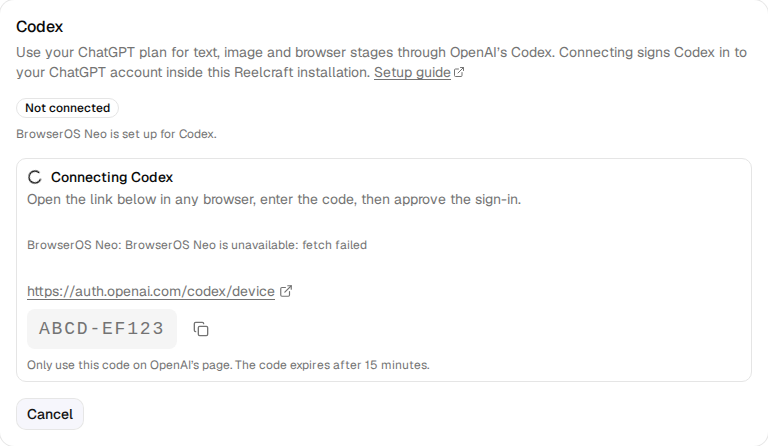
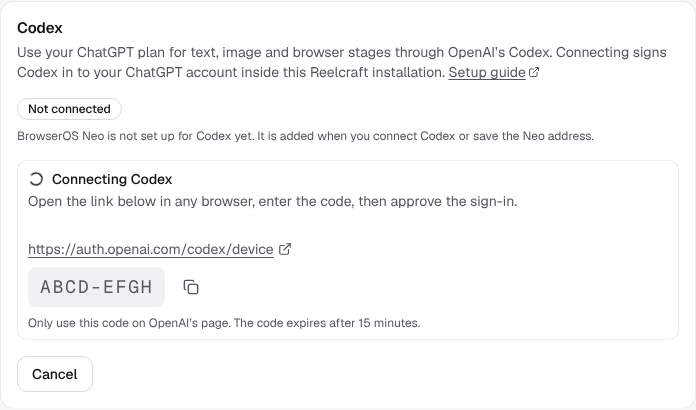
docs: retake screenshots for the new UI; fix(assistant): never reset a long chat (#225)
* docs: retake the screenshots for the new UI

The guide's screenshots predated the redesign (icon rail, new Home, run page,
canvas) and the assistant. Retake all of them in the light theme from a seeded
local stack, and add two: the New channel dialog and the assistant dock.

- Replace the Channels list shot with the New channel dialog: /channels now
  opens a channel's page, so the old "one channel card" view no longer exists.
- Fix captions and the channel-page tab table (Library, Assistant notes) to
  match what the shots show.
- Add the assistant dock to "The assistant" page.
- Remove run-page.png and unified-run-page.png, which no page used.
- Keep blueprint-canvas.png (the root README embeds it) with a Graph capture.

Claude-Session: https://claude.ai/code/session_01QxhZpYdusGp2ynsEqok3ci

* fix(assistant): never reset a long chat; Codex and Claude manage their own context

A chat whose last turn read more than 150k tokens started a fresh provider
session from a summary on the next message. Remove that: Reelcraft now only
records usage. A chat whose tools are out of date after an update still
continues in a fresh session, since the old session cannot gain new tools.

- carryOverReason only returns 'updated'; the token threshold is gone.
- The Usage popover shows what the last answer read instead of a "how full"
  meter. Old 'long' dividers still render.
- Docs and the e2e test describe the new behaviour.
[…]

diff --git a/apps/web/src/components/assistant/usage-popover.tsx b/apps/web/src/components/assistant/usage-popover.tsx
@@ -2,12 +2,11 @@ import { Gauge } from 'lucide-react';
 import type { AssistantUsageDto } from '@reelcraft/shared';
 import { Button } from '@/components/ui/button';
 import { Popover, PopoverContent, PopoverTrigger } from '@/components/ui/popover';
-import { formatTokens, fullness } from './usage.logic';
+import { formatTokens } from './usage.logic';
 
 /** What this chat has used: tokens of your Codex or Claude plan, and what its runs spent. */
 export function UsagePopover({ usage }: { usage: AssistantUsageDto | null }) {
   if (!usage) return null;
-  const full = fullness(usage.lastInputTokens);
   return (
     <Popover>
       <PopoverTrigger asChild>
@@ -24,22 +23,17 @@ export function UsagePopover({ usage }: { usage: AssistantUsageDto | null }) {
           <dd>{formatTokens(usage.outputTokens)} tokens</dd>
           <dt className="text-muted-foreground">Answers</dt>
           <dd>{usage.turns}</dd>
+          {usage.lastInputTokens !== null && (
+            <>
+              <dt className="text-muted-foreground">Last answer read</dt>
+              <dd>{formatTokens(usage.lastInputTokens)} tokens</dd>
+            </>
+          )}
           <dt className="text-muted-foreground">Runs it started</dt>
           <dd>
             {usage.runs} · ${usage.runSpendUsd.toFixed(2)}
           </dd>
         </dl>
-        {full !== null && (
-          <div className="mt-3">
-            <p className="text-xs text-muted-foreground">How full the conversation is</p>
-            <div className="mt-1 h-1.5 overflow-hidden rounded-full bg-surface-3">
-              <div className="h-full rounded-full bg-acc" style={{ width: `${full}%` }} />
-            </div>
-            <p className="mt-1 text-[11px] text-muted-foreground">
-              At 100% the next message continues in a fresh session, starting from a summary.
-            </p>
-          </div>
-        )}
         <p className="mt-3 text-[11px] text-muted-foreground">
           Tokens count against your Codex or Claude plan; runs are paid by your provider keys.
         </p>

diff --git a/apps/api/src/assistant/carry-over.ts b/apps/api/src/assistant/carry-over.ts
@@ -1,27 +1,19 @@
-/** Long and outdated chats continue in a fresh provider session that starts from a summary. */
-
-/** A turn that read more than this many tokens makes the next message start fresh. */
-export const CARRY_OVER_INPUT_TOKENS = 150_000;
+/** A chat whose tools are out of date continues in a fresh provider session that starts from a
+ * summary. A long chat never does: Codex and Claude manage their own context, and Reelcraft only
+ * records usage. */
 
 /** The most characters of a summary carried into the new session. */
 export const SUMMARY_CHARS = 8_000;
 
-export type CarryOverReason = 'long' | 'updated';
+export type CarryOverReason = 'updated';
 
 /** Why the next message should start a fresh session, or null when it can continue as it is. */
-export function carryOverReason(input: {
-  stale: boolean;
-  lastInputTokens: number | null;
-}): CarryOverReason | null {
-  if (input.stale) return 'updated';
-  if (input.lastInputTokens !== null && input.lastInputTokens > CARRY_OVER_INPUT_TOKENS) {
-    return 'long';
-  }
-  return null;
+export function carryOverReason(input: { stale: boolean }): CarryOverReason | null {
+  return input.stale ? 'updated' : null;
 }
 
 /** What the old session is asked for: a hand-off for the model that continues the chat. */
-export const SUMMARY_PROMPT = `<reelcraft_context>This chat is moving to a fresh session (it got long, or Reelcraft was updated). Do not call any tool. Write a hand-off for the assistant that continues it, in at most 600 words:
+export const SUMMARY_PROMPT = `<reelcraft_context>This chat is moving to a fresh session (Reelcraft was updated). Do not call any tool. Write a hand-off for the assistant that continues it, in at most 600 words:
 - what the user wants overall, and their preferences and decisions so far;
 - what you did: blueprints, versions, runs, files and ids involved (keep every id exactly);
 - what is in progress or waiting (runs being watched, goals, questions, approvals);

diff --git a/apps/api/test/e2e/assistant.e2e.test.ts b/apps/api/test/e2e/assistant.e2e.test.ts
@@ -1567,7 +1567,7 @@ describe('assistant (e2e)', () => {
     );
   });
 
-  it('reports usage, and continues a long chat in a fresh session from a summary', async () => {
+  it('reports usage, and leaves a long chat to the provider instead of resetting it', async () => {
     const sid = await newSession('auto');
     const before = agent.summaries;
     useScript([
@@ -1589,19 +1589,14 @@ describe('assistant (e2e)', () => {
 
     await turn(sid, { text: 'second' });
     session = await waitIdle(sid);
-    expect(agent.summaries).toBe(before + 1);
-    const [reset] = ofType(session, 'context_reset');
-    expect(reset).toMatchObject({
-      payload: { reason: 'long', by: 'assistant', summary: agent.summary },
-    });
-    expect(agent.turns.at(-1)!.text).toContain('<earlier_conversation_summary>');
-    expect(agent.turns.at(-1)!.text).toContain('second');
-    const [newSessionRow] = await testDb.db
+    expect(agent.summaries).toBe(before);
+    expect(ofType(session, 'context_reset')).toHaveLength(0);
+    expect(agent.turns.at(-1)!.text).not.toContain('<earlier_conversation_summary>');
+    const [after] = await testDb.db
       .select({ ext: assistantSession.externalSessionId })
       .from(assistantSession)
       .where(eq(assistantSession.id, sid));
-    expect(newSessionRow!.ext).not.toBe(oldSession!.ext);
-    expect(agent.deleted).toContain(oldSession!.ext);
+    expect(after!.ext).toBe(oldSession!.ext);
   });
 
   it('asks questions, then continues with the answers as the next turn', async () => {

diff --git a/apps/api/src/assistant/carry-over.test.ts b/apps/api/src/assistant/carry-over.test.ts
@@ -1,20 +1,10 @@
 import { describe, expect, it } from 'vitest';
-import {
-  CARRY_OVER_INPUT_TOKENS,
-  SUMMARY_CHARS,
-  carryOverReason,
-  fallbackSummary,
-  withSummary,
-} from './carry-over';
+import { SUMMARY_CHARS, carryOverReason, fallbackSummary, withSummary } from './carry-over';
 
 describe('carrying a chat over', () => {
-  it('starts fresh after an update or a very long turn', () => {
-    expect(carryOverReason({ stale: true, lastInputTokens: 10 })).toBe('updated');
-    expect(carryOverReason({ stale: false, lastInputTokens: CARRY_OVER_INPUT_TOKENS + 1 })).toBe(
-      'long',
-    );
-    expect(carryOverReason({ stale: false, lastInputTokens: 1000 })).toBeNull();
-    expect(carryOverReason({ stale: false, lastInputTokens: null })).toBeNull();
+  it('starts fresh after an update, never because a chat is long', () => {
+    expect(carryOverReason({ stale: true })).toBe('updated');
+    expect(carryOverReason({ stale: false })).toBeNull();
   });
 
   it('falls back to the newest words of the conversation, within the limit', () => {

diff --git a/apps/api/src/assistant/assistant.service.ts b/apps/api/src/assistant/assistant.service.ts
@@ -813,13 +813,11 @@ export class AssistantService implements OnModuleInit, OnModuleDestroy {
       const channelId = await this.contextChannel(dto.context);
       const notes = await this.knowledge.notesBlock(channelId).catch(() => null);
       const images = await this.attachedImages(attachments, ctx);
-      // a long or outdated chat continues in a fresh session, from a summary
+      // a chat whose tools are out of date continues in a fresh session, from a summary; a long
+      // chat is left to Codex or Claude, which manage their own context
       let externalSessionId = session.externalSessionId;
       let message = text;
-      const reason = carryOverReason({
-        stale: this.toSessionDto(session).stale,
-        lastInputTokens: await this.lastInputTokens(session.id, turnId),
-      });
+      const reason = carryOverReason({ stale: this.toSessionDto(session).stale });
       if (reason) {
         const carried = await this.carryOver(
           session,

diff --git a/apps/web/src/components/assistant/usage.logic.ts b/apps/web/src/components/assistant/usage.logic.ts
@@ -1,14 +1,5 @@
-/** The tokens a turn may read before the chat continues in a fresh session (as the API). */
-export const CARRY_OVER_INPUT_TOKENS = 150_000;
-
 export function formatTokens(n: number): string {
   if (n >= 1_000_000) return `${(n / 1_000_000).toFixed(1)}M`;
   if (n >= 1_000) return `${Math.round(n / 1_000)}k`;
   return String(n);
-}
-
-/** How full the conversation is, 0-100, from what the latest turn read; null before any turn. */
-export function fullness(lastInputTokens: number | null): number | null {
-  if (lastInputTokens === null) return null;
-  return Math.min(100, Math.round((lastInputTokens / CARRY_OVER_INPUT_TOKENS) * 100));
 }

diff --git a/apps/web/src/components/assistant/usage.logic.test.ts b/apps/web/src/components/assistant/usage.logic.test.ts
@@ -1,15 +1,10 @@
 import { describe, expect, it } from 'vitest';
-import { formatTokens, fullness } from './usage.logic';
+import { formatTokens } from './usage.logic';
 
 describe('chat usage', () => {
   it('writes token counts briefly', () => {
     expect(formatTokens(950)).toBe('950');
     expect(formatTokens(12_400)).toBe('12k');
     expect(formatTokens(2_340_000)).toBe('2.3M');
-  });
-  it('says how full the conversation is', () => {
-    expect(fullness(null)).toBeNull();
-    expect(fullness(75_000)).toBe(50);
-    expect(fullness(400_000)).toBe(100);
   });
 });

diff --git a/apps/docs/docs/blueprints/assistant.md b/apps/docs/docs/blueprints/assistant.md
@@ -27,6 +27,8 @@ The assistant knows what you're looking at. The box above the message field show
 "this stage" in your message mean that one. Select **✕** on it to send a message about nothing in
 particular.
 
+![The assistant on a run page, with the run and stage it is looking at](/img/usage/assistant-dock.png)
+
 Type your message and press **Enter** (**Shift + Enter** starts a new line). Messages can contain up
 to 64,000 characters.
 
@@ -214,13 +216,14 @@ Your chats are kept, so you can come back to one later. At the top of the chat:
 Select **Stop** (the square) to interrupt the assistant while it works.
 
 **Usage** (the gauge) shows what the chat has used: the tokens it read and wrote, how many answers,
-the runs it started with what they spent, and how full the conversation is.
+the runs it started with what they spent, and how much the last answer read. Reelcraft only
+shows this: it never shortens or resets a long chat. Codex and Claude manage their own context.
 
-When a conversation gets very long, or after you update Reelcraft, your next message continues the
-chat in a fresh session. The assistant first writes a summary of the chat so far, and the fresh
-session starts from it, using the new version's tools after an update. The chat shows a divider
-(**The chat got long: continued in a fresh session**); select it to read the summary. Nothing in the
-chat is lost. Start a new chat instead whenever you change subject.
+After you update Reelcraft, a chat whose tools are out of date continues in a fresh session on your
+next message. The assistant first writes a summary of the chat so far, and the fresh session starts
+from it, using the new version's tools. The chat shows a divider; select it to read the summary.
+Nothing in the chat is lost. A long chat is never reset like this. Start a new chat whenever you
+change subject.
 
 ## Good to know
 

diff --git a/apps/docs/docs/channels/channels.md b/apps/docs/docs/channels/channels.md
@@ -25,21 +25,21 @@ Two channels never share any of these.
 If the channel can't be saved, the reason is shown above the **Create** button and the form stays
 open, so you can fix it and try again.
 
-![The Channels page with one channel card](/img/usage/channels-list.png)
+![The New channel dialog, with Name, Description, Themes and Defaults](/img/usage/channel-new-dialog.png)
 
 ## The channel page
 
-Select a channel's card to open its page. Its tabs show how many of each item it has:
+Select a channel in the list on the left to open its page. Its tabs show how many of each item it has:
 
 | Tab                 | What's there                                                                                     |
 | ------------------- | ------------------------------------------------------------------------------------------------ |
 | **Blueprints**      | The recipes for your videos. See [Blueprints](../blueprints/blueprints.md).                      |
 | **Characters**      | People or mascots that appear in your videos. See [Characters](./characters.md).                 |
-| **Assets**          | Images, video and audio you upload to reuse. See [Assets](./assets.md).                          |
+| **Library**         | Images, video and audio you upload to reuse. See [Assets](./assets.md).                          |
 | **Runs**            | Every run of this channel's blueprints. See [Runs list](../runs/runs-list.md).                   |
 | **Assistant notes** | What the [assistant](../blueprints/assistant.md#what-it-remembers) remembers about this channel. |
 
-![A channel's page, with the Blueprints, Characters, Assets and Runs tabs](/img/usage/channel-page.png)
+![A channel's page, with the Blueprints, Runs, Library, Characters and Assistant notes tabs](/img/usage/channel-page.png)
 
 ## Edit a channel
 

diff --git a/apps/docs/docs/runs/outputs-and-downloads.md b/apps/docs/docs/runs/outputs-and-downloads.md
@@ -26,7 +26,7 @@ Changing tabs or expanding the panel preserves the selected item and attempt. **
 same backend eligibility and confirmation rules on both surfaces. A disabled stage's stored outputs
 remain inspectable, but are unavailable to descendants until the stage is enabled again.
 
-![Shared stage details, item progress, and attempt provenance](/img/usage/dag-stage-details.jpg)
+![A stage's Attempts tab, showing what the attempt received](/img/usage/dag-stage-details.jpg)
 
 How each kind of output looks:
 

diff --git a/apps/docs/docs/runs/canvas-runs.md b/apps/docs/docs/runs/canvas-runs.md
@@ -10,7 +10,7 @@ creates a version. See [Versions](../blueprints/versions.md).
 Production runs of a saved version start from the blueprints page and never show on the canvas. See
 [Starting a run](./starting-a-run.md).
 
-![Canvas toolbar, stage cards and Run tab showing six saved Motion Planning items](/img/usage/unified-canvas-runs.png)
+![The Test runs panel on the canvas: the latest test run, its stages and its output](/img/usage/unified-canvas-runs.png)
 
 ## The run buttons
 
